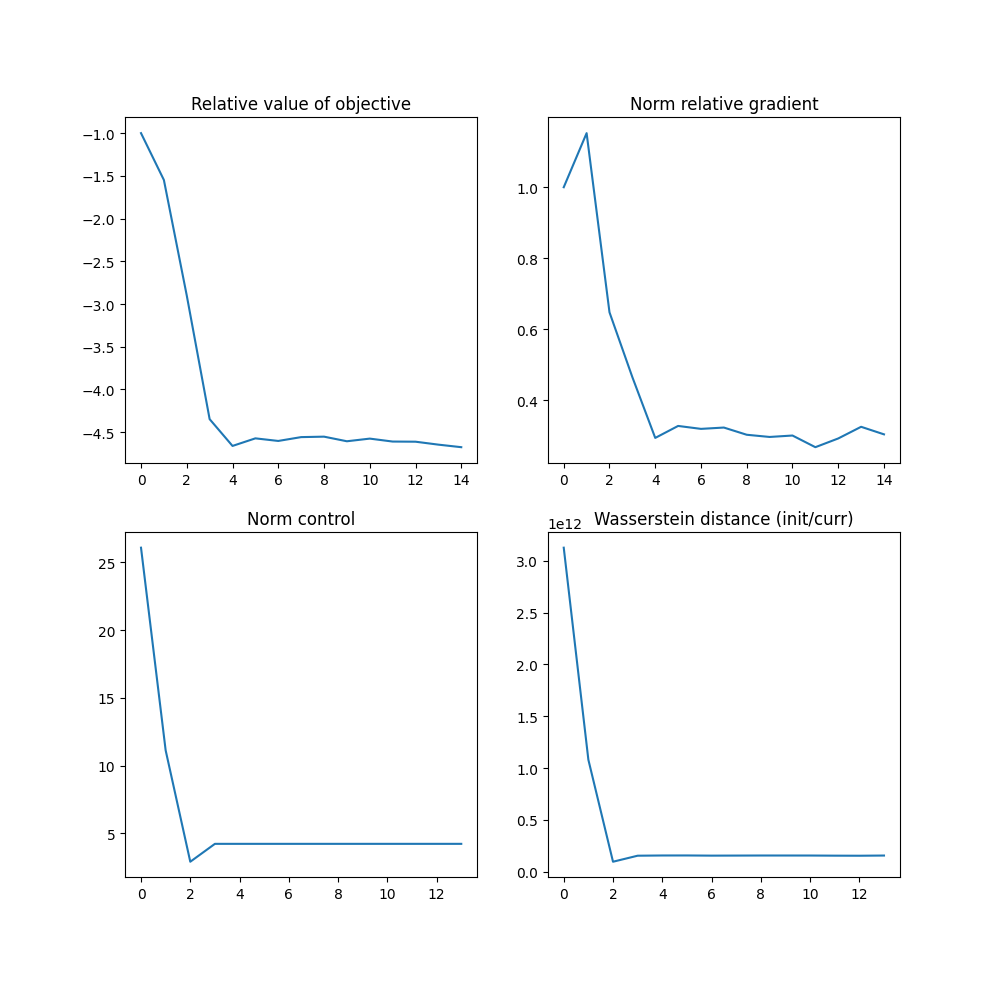
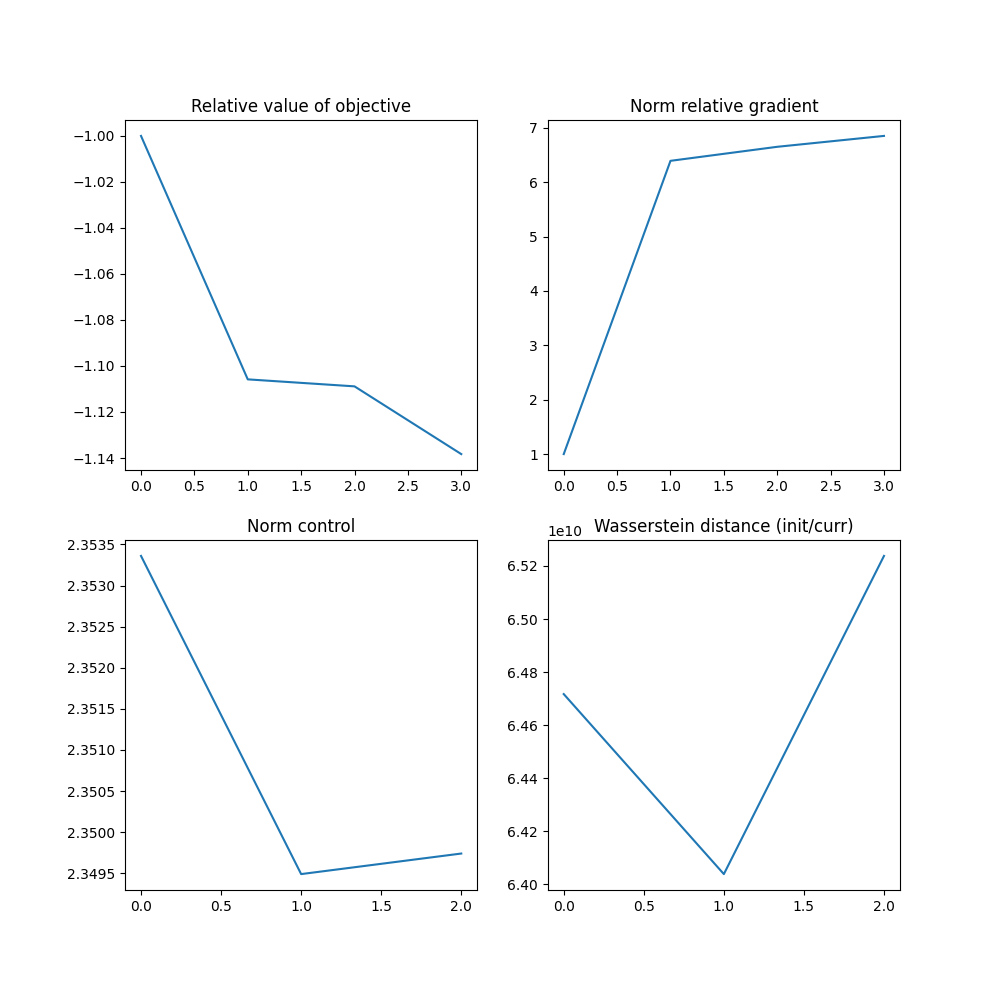
Added force field and optimization monitoring, gradient is not descendinggit add .

diff --git a/pprc/fig/post_processing_converging.tex b/pprc/fig/post_processing_converging.tex
@@ -1,4 +1,4 @@
-% This file was created by tikzplotlib v0.9.1.
+% This file was created by tikzplotlib v0.9.2.
 \begin{tikzpicture}
 
 \definecolor{color0}{rgb}{0.12156862745098,0.466666666666667,0.705882352941177}
@@ -9,29 +9,18 @@ tick align=outside,
 tick pos=left,
 title={Relative value of objective},
 x grid style={white!69.0196078431373!black},
-xmin=-0.7, xmax=14.7,
+xmin=-0.15, xmax=3.15,
 xtick style={color=black},
 y grid style={white!69.0196078431373!black},
-ymin=-4.85969462948771, ymax=-0.816205017643442,
+ymin=-1.14521153117301, ymax=-0.993085165182237,
 ytick style={color=black}
 ]
 \addplot [semithick, color0]
 table {%
 0 -1
-1 -1.54839524679765
-2 -2.90051456531442
-3 -4.34771477417236
-4 -4.6612543266437
-5 -4.57249812617377
-6 -4.60286674358478
-7 -4.55802123950447
-8 -4.55259767056029
-9 -4.60658913096572
-10 -4.57551309151852
-11 -4.60992412056493
-12 -4.61170109734632
-13 -4.64612896977455
-14 -4.67589964713115
+1 -1.10581822584381
+2 -1.10885814751648
+3 -1.13829669635525
 };
 
 \nextgroupplot[
@@ -39,29 +28,18 @@ tick align=outside,
 tick pos=left,
 title={Norm relative gradient},
 x grid style={white!69.0196078431373!black},
-xmin=-0.7, xmax=14.7,
+xmin=-0.15, xmax=3.15,
 xtick style={color=black},
 y grid style={white!69.0196078431373!black},
-ymin=0.224123686952772, ymax=1.19643770436824,
+ymin=0.707443604629546, ymax=7.14368430277953,
 ytick style={color=black}
 ]
 \addplot [semithick, color0]
 table {%
 0 1
-1 1.15224161266754
-2 0.647968594665165
-3 0.465426583142689
-4 0.294416330295009
-5 0.328118075435087
-6 0.319865491262322
-7 0.323584544071674
-8 0.303300434787816
-9 0.297114889386626
-10 0.301132484518919
-11 0.268319778653475
-12 0.292896669022266
-13 0.325713567056738
-14 0.304453281270587
+1 6.39290058373922
+2 6.65085595610536
+3 6.85112790740908
 };
 
 \nextgroupplot[
@@ -69,28 +47,17 @@ tick align=outside,
 tick pos=left,
 title={Norm control},
 x grid style={white!69.0196078431373!black},
-xmin=-0.65, xmax=13.65,
+xmin=-0.1, xmax=2.1,
 xtick style={color=black},
 y grid style={white!69.0196078431373!black},
-ymin=1.741598, ymax=27.249762,
+ymin=2.3492965, ymax=2.3535535,
 ytick style={color=black}
 ]
 \addplot [semithick, color0]
 table {%
-0 26.0903
-1 11.1286
-2 2.90106
-3 4.22157
-4 4.22157
-5 4.22157
-6 4.22157
-7 4.22157
-8 4.22157
-9 4.22157
-10 4.22158
-11 4.22158
-12 4.22158
-13 4.22158
+0 2.35336
+1 2.34949
+2 2.34974
 };
 
 \nextgroupplot[
@@ -98,28 +65,17 @@ tick align=outside,
 tick pos=left,
 title={Wasserstein distance (init/curr)},
 x grid style={white!69.0196078431373!black},
-xmin=-0.65, xmax=13.65,
+xmin=-0.1, xmax=2.1,
 xtick style={color=black},
 y grid style={white!69.0196078431373!black},
-ymin=-55703885000, ymax=3278840185000,
+ymin=63978425000, ymax=65297875000,
 ytick style={color=black}
 ]
 \addplot [semithick, color0]
 table {%
-0 3127270000000
-1 1080170000000
-2 95866300000
-3 154007000000
-4 156121000000
-5 156352000000
-6 154677000000
-7 155225000000
-8 155880000000
-9 155802000000
-10 155677000000
-11 154397000000
-12 153735000000
-13 155576000000
+0 64717000000
+1 64038400000
+2 65237900000
 };
 \end{groupplot}
 

diff --git a/pprc/post_processing_convergence.py b/pprc/post_processing_convergence.py
@@ -1,14 +1,19 @@
+#!/usr/bin/env python3
+
+import argparse
 from matplotlib import pyplot as plt
 import tikzplotlib
 
 fig_objective = plt.figure(figsize=(10, 10))
 
-pathToBuildSRC = "../../build-Optim/src/"
+parser = argparse.ArgumentParser(prog="Visualizing optimization monitoring", description='Needs path to generated src files')
+parser.add_argument('pathToBuildSRC', type=str, help='path to the build directory')
+args = parser.parse_args()
 
 ####
 # objective
 ####
-objective_track_file = open(pathToBuildSRC + "objectiveTrack.txt")
+objective_track_file = open(args.pathToBuildSRC + "objectiveTrack.txt")
 
 objective_track = objective_track_file.read().split("\n")
 objective_track_float = [];
@@ -27,7 +32,7 @@ ax1.set_yscale('linear')
 ####
 # gradient
 ####
-norm_gradient_file = open(pathToBuildSRC + "normGradientTrack.txt")
+norm_gradient_file = open(args.pathToBuildSRC + "normGradientTrack.txt")
 
 norm_gradient = norm_gradient_file.read().split("\n")
 norm_gradient_float = []
@@ -45,7 +50,7 @@ ax2.set_yscale('linear')
 ####
 # control
 ####
-norm_control_file = open(pathToBuildSRC + "normControlTrack.txt")
+norm_control_file = open(args.pathToBuildSRC + "normControlTrack.txt")
 
 norm_control = norm_control_file.read().split("\n")
 norm_control_float = []
@@ -64,7 +69,7 @@ ax3.set_yscale('linear')
 # wasserstein distance
 ####
 try:
-	wd_file = open(pathToBuildSRC + "wassersteinDistanceTrack.txt")
+	wd_file = open(args.pathToBuildSRC + "wassersteinDistanceTrack.txt")
 
 
 	wd = wd_file.read().split("\n")
